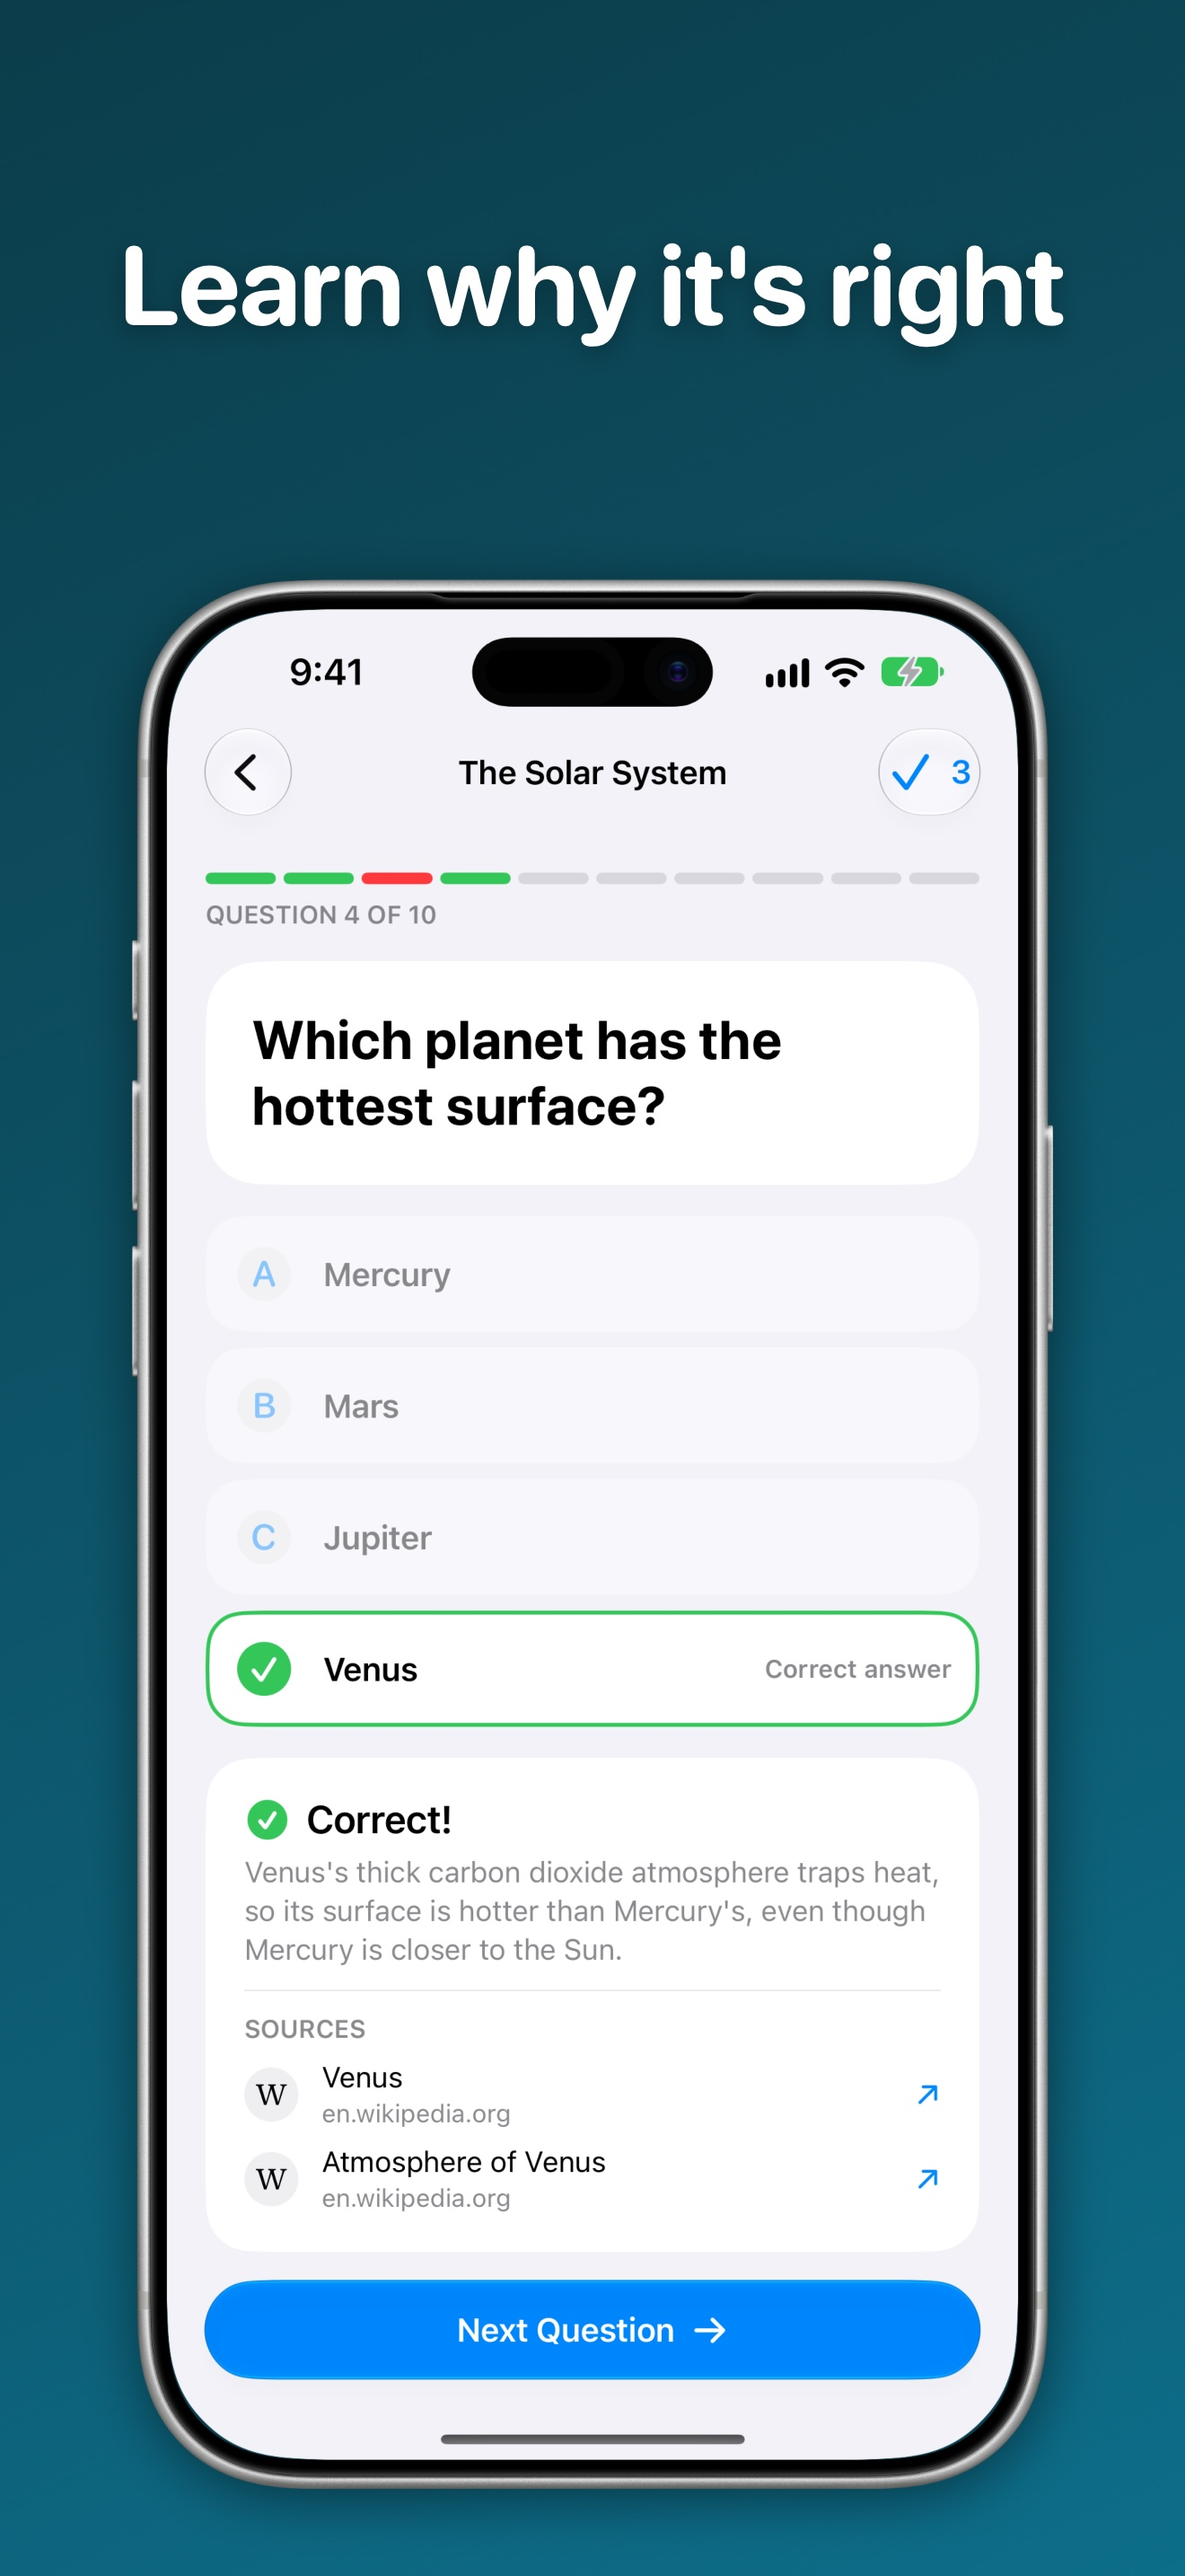
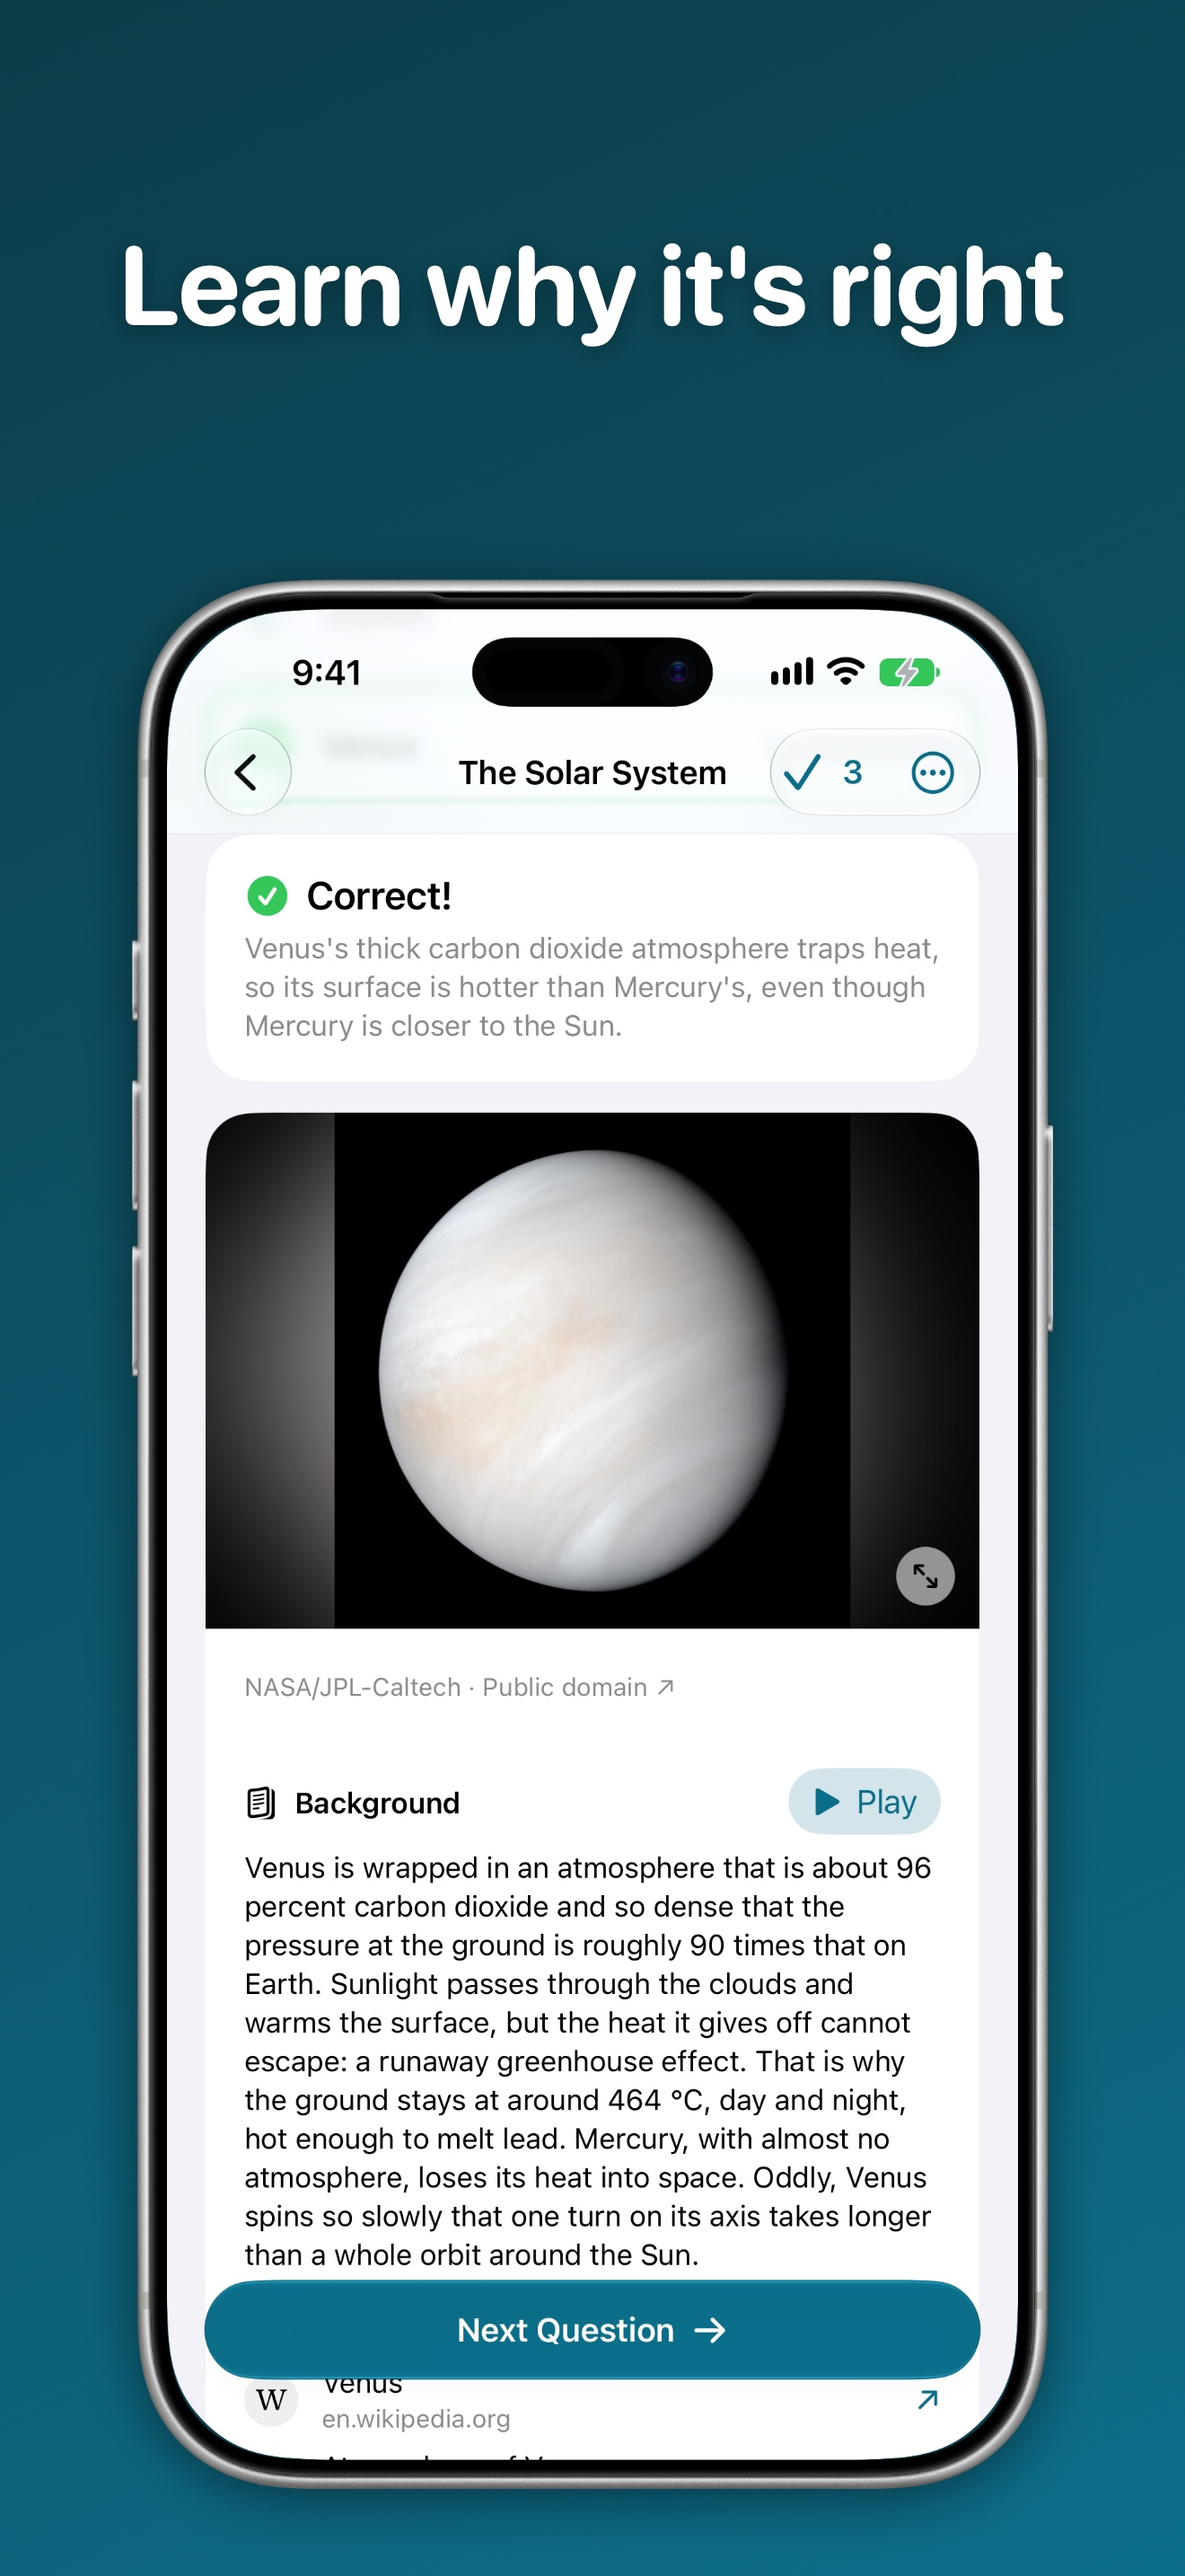
Inquizitive 1.2.0: feature texts, iPhone screenshots, press-kit sizes
Background, page images and read-aloud in the fact-checking feature;
editing quizzes in the practice feature. Screenshots and the app icon
come from make press-kit; the ZIP sizes match the new captures.

Claude-Session: https://claude.ai/code/session_01UgFh5WHvfYjddkzuYFqbPT

diff --git a/src/data/site.ts b/src/data/site.ts
@@ -101,12 +101,12 @@ export const features = [
   {
     icon: 'patch-check',
     title: 'Fact-checked, with sources',
-    text: "Questions are researched on Wikipedia, Wiktionary, Wikidata, fan wikis and MusicBrainz while they're written. Every answer comes with a short explanation and a source you can tap to read more.",
+    text: "Questions are researched on Wikipedia, Wiktionary, Wikidata, fan wikis and MusicBrainz while they're written. Every answer comes with a short explanation, the picture from its Wikipedia page, a source you can tap, and a Background button that writes a short paragraph on the fact and reads it to you.",
   },
   {
     icon: 'arrow-repeat',
     title: 'Practice what you missed',
-    text: 'Retry only the questions you got wrong until they stick. Your best score is kept for every quiz, and your quizzes sync through iCloud.',
+    text: "Retry only the questions you got wrong until they stick. Your best score is kept for every quiz. Remove questions you're done with and add new ones in the same style. Your quizzes sync through iCloud.",
   },
   {
     icon: 'laptop',
@@ -233,13 +233,13 @@ export const press = {
   downloads: [
     {
       title: 'Framed screenshots',
-      text: '29 captioned images (iPhone, iPhone Duo, iPad and Mac in Apple device bezels, Vision Pro unframed). ZIP, 10.6\u00a0MB.',
+      text: '29 captioned images (iPhone, iPhone Duo, iPad and Mac in Apple device bezels, Vision Pro unframed). ZIP, 10.9\u00a0MB.',
       href: '/press/Inquizitive-Framed-Screenshots-en-US.zip',
       label: 'Download ZIP',
     },
     {
       title: 'Raw screenshots',
-      text: '29 unframed full-resolution captures. ZIP, 46\u00a0MB.',
+      text: '29 unframed full-resolution captures. ZIP, 48\u00a0MB.',
       href: '/press/Inquizitive-Raw-Screenshots-en-US.zip',
       label: 'Download ZIP',
     },
